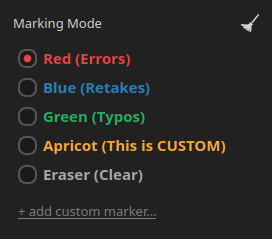
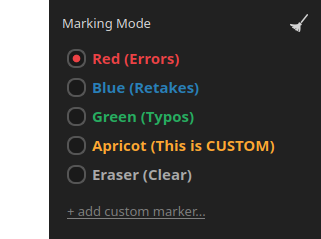
docs: add transparent margins to sidebar images and adjust markdown widths

Changed region(s): [[0.0, 0.0, 0.8529, 1.0], [0.8824, 0.0586, 0.9706, 0.1464]]

diff --git a/docs/USER_GUIDE.md b/docs/USER_GUIDE.md
@@ -396,7 +396,7 @@ Pressing **Ctrl + F** (or Cmd + F on macOS) toggles the floating search bar:
 
 The **Main Panel** serves as the primary control center for manual word painting and quick assembly actions. It is organized into two sections:
 
-<img align="right" src="images/07a_sidebar_tools.png" alt="Sidebar Main Upper" width="240" style="padding-left: 5%;">
+<img align="right" src="images/07a_sidebar_tools.png" alt="Sidebar Main Upper" width="285">
 
 #### Upper Section: Marking Palette & Custom Colors
 - **Active Marker Selector:** Radio buttons to switch between **Red**, **Blue**, **Green**, **Eraser**, and custom markers. Shortcut keys `1`, `2`, `3`, `4` select these tools instantly.
@@ -405,7 +405,7 @@ The **Main Panel** serves as the primary control center for manual word painting
 
 <br clear="all">
 
-<img align="right" src="images/07b_sidebar_tools.png" alt="Sidebar Main Lower" width="240" style="padding-left: 5%;">
+<img align="right" src="images/07b_sidebar_tools.png" alt="Sidebar Main Lower" width="285">
 
 #### Lower Section: Favorites & Timeline Export
 - **Analysis Duration Indicator:** Displays exact stats on transcription processing time (e.g. *Analyzed in: 0.18min*).
@@ -428,7 +428,7 @@ The **Script Analysis Panel** houses intelligent alignment tools that automatica
   <img src="images/08a_script_analysis_sbs.png" alt="Script Analysis" width="100%">
 </p>
 
-<img align="right" src="images/08b_script_analysis_sbs.png" alt="Script Analysis Sidebar" width="240" style="padding-left: 5%;">
+<img align="right" src="images/08b_script_analysis_sbs.png" alt="Script Analysis Sidebar" width="285">
 
 #### Available Tools & Modes:
 - **Script Input Area & `Import Script`:** Paste your text or load `.txt`, `.docx`, or `.pdf` files. BadWords automatically strips formatting and normalizes whitespace.
@@ -499,7 +499,7 @@ The **Filler Words Panel** manages BadWords' built-in dictionary for identifying
 
 The **Assembly Panel** allows you to configure global display toggles and choose how each marker color is handled during timeline assembly or cut immediately from an active timeline.
 
-<img align="right" src="images/09_assembly_panel.png" alt="Assembly Panel" width="280" style="padding-left: 5%; padding-bottom: 3%;">
+<img align="right" src="images/09_assembly_panel.png" alt="Assembly Panel" width="325">
 
 #### Global Inaudible & Typos Toggles:
 - **`Show inaudible fragments`:** Controls how inaudible `(...)` tokens behave in the transcript canvas (see [Section 3.2](#32-inaudible-fragments)):
